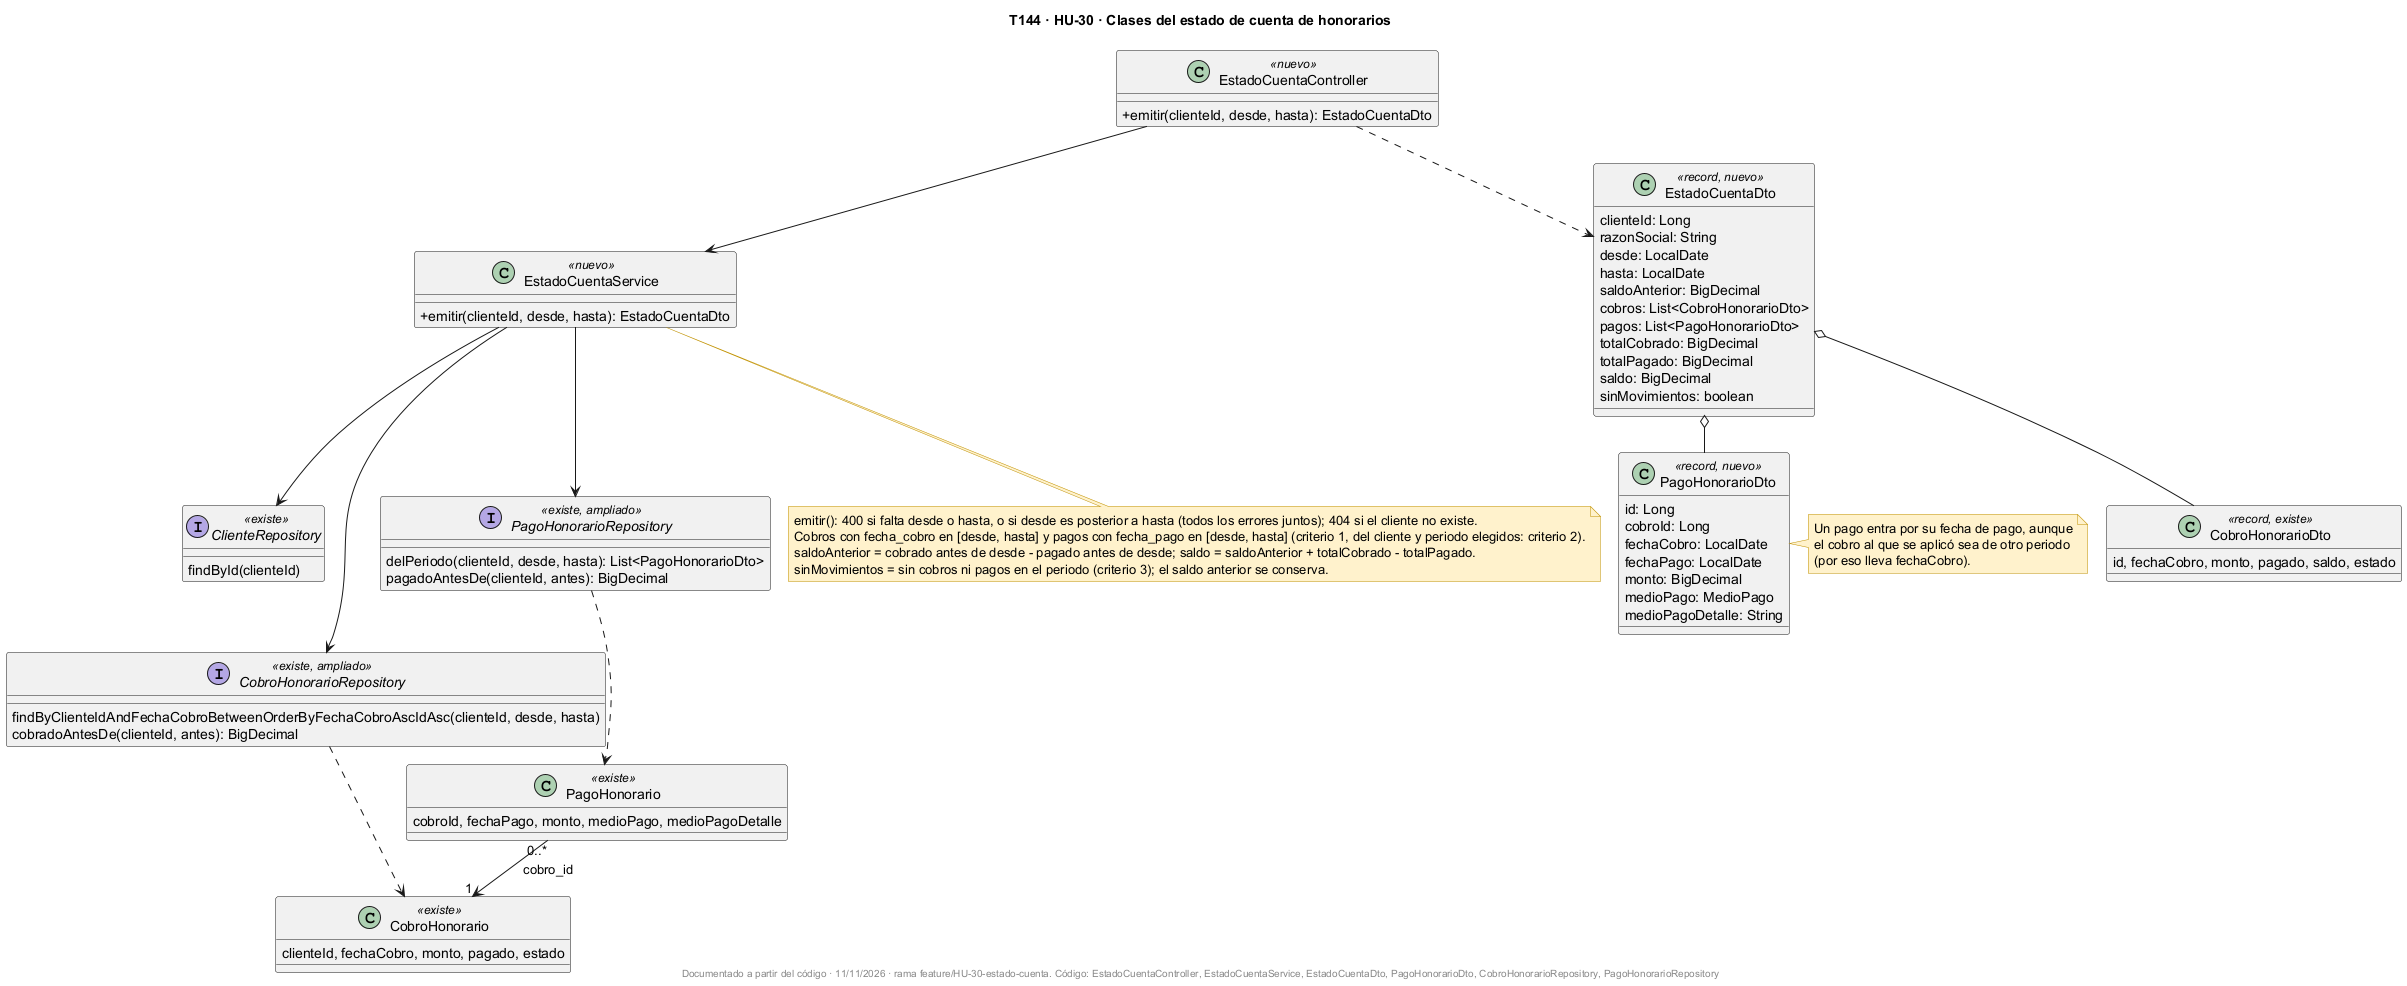
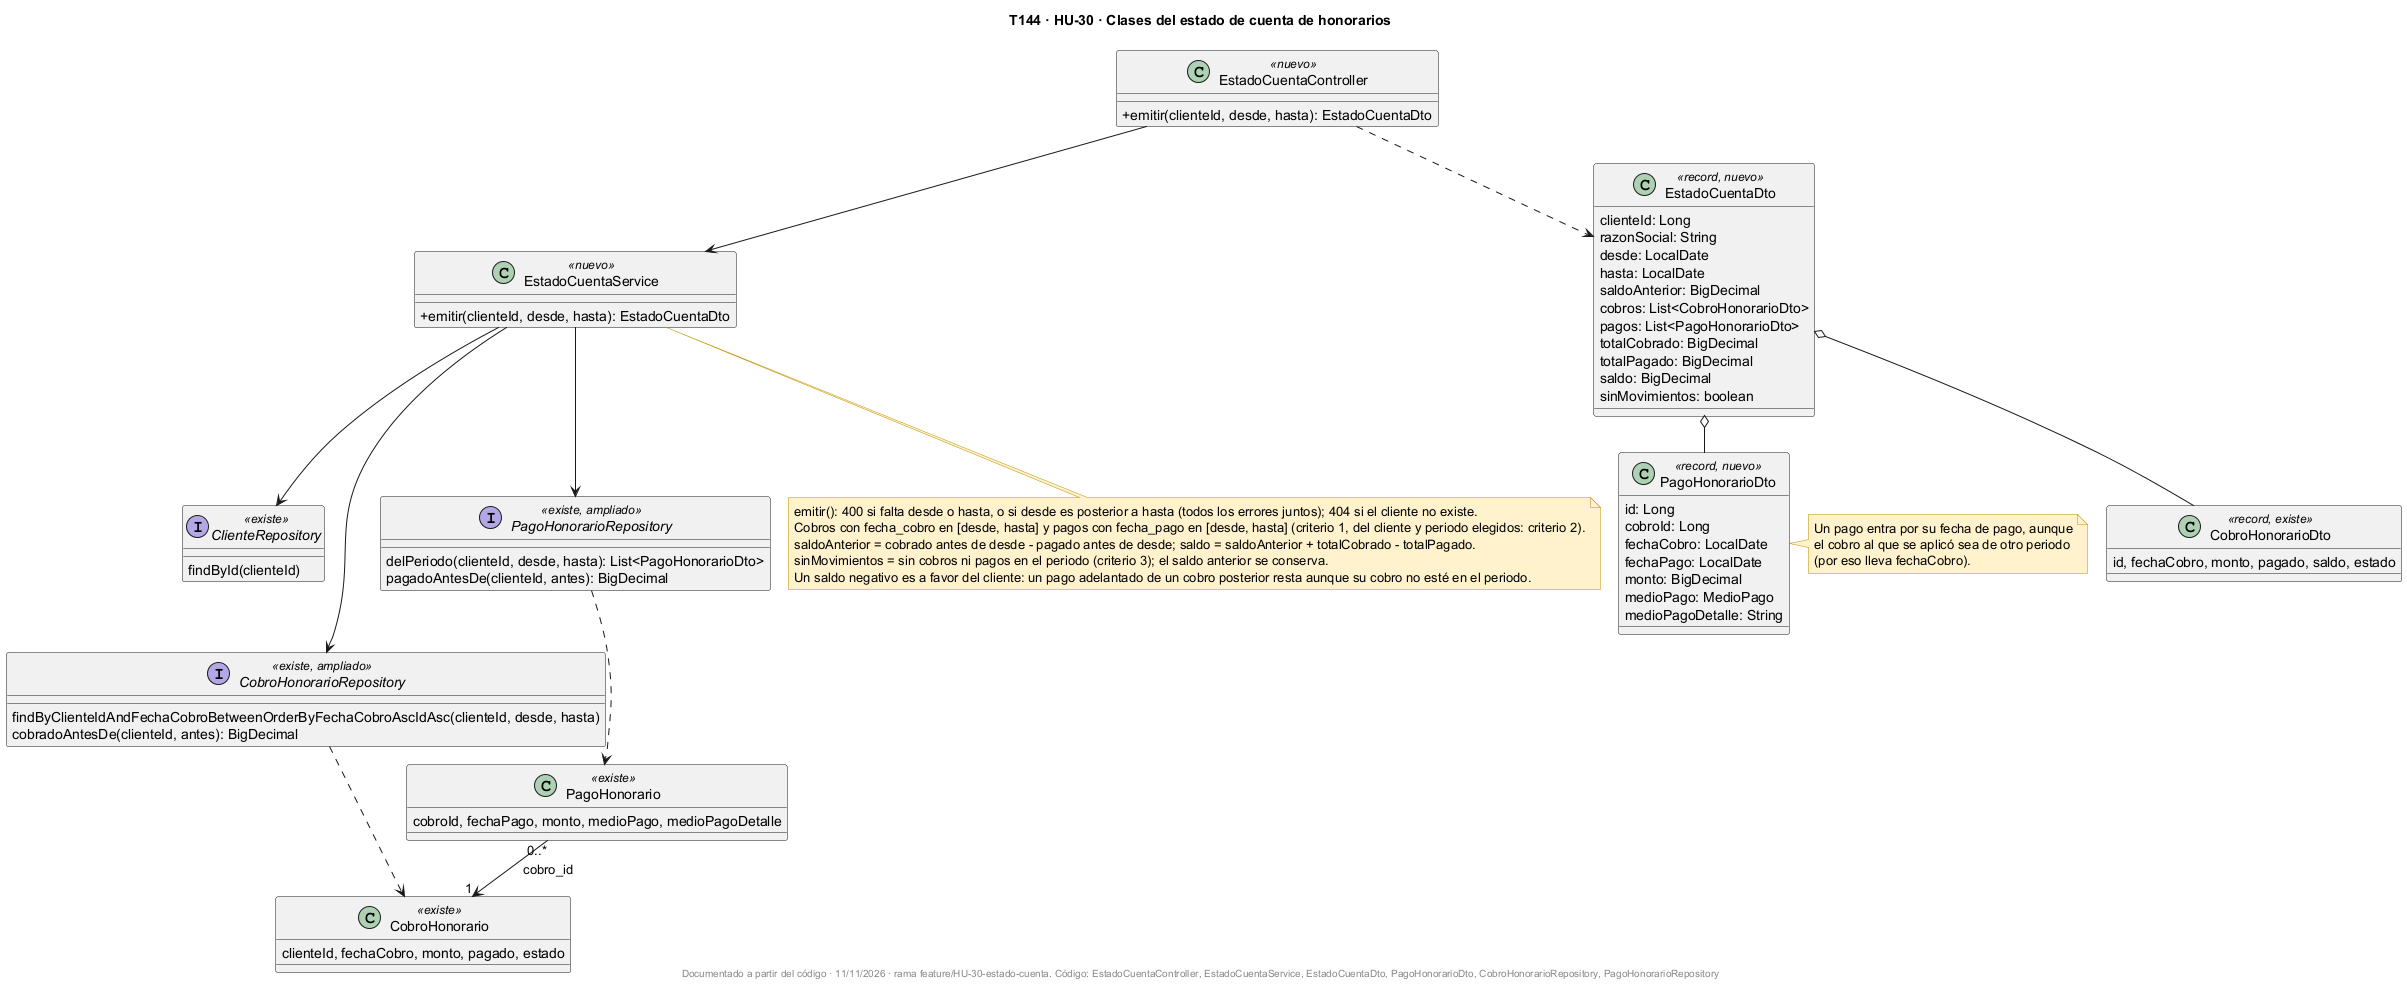
HU-30: etiquetas «Honorarios del periodo» y «Pagos recibidos», saldo a favor y estado de hoy (revisión de #58)
- El resumen dice «Honorarios del periodo» (lo cobrado según las fechas de cobro) y «Pagos recibidos», para no confundir
  lo facturado con lo recibido.
- Un saldo negativo se muestra «a favor del cliente», con una nota: los pagos entran por su fecha de pago, así que un pago
  adelantado de un cobro posterior al periodo puede dejar saldo a favor. Prueba con PostgreSQL que lo fija.
- La columna de los cobros dice «Estado actual (hoy)».
- Diagramas T144 actualizados.

Changed region(s): [[0.3116, 0.4868, 0.6855, 0.6085]]

diff --git a/frontend-web/src/pages/EstadoCuentaPage.tsx b/frontend-web/src/pages/EstadoCuentaPage.tsx
@@ -15,6 +15,9 @@ import Table, { Td } from '../components/Table'
 
 const ESTADO_COBRO = { PENDIENTE: 'Pendiente', PAGO_PARCIAL: 'Pago parcial', PAGADO: 'Pagado' } as const
 
+/** Un saldo negativo es plata a favor del cliente (por ejemplo, un pago adelantado). */
+const saldo = (n: number) => (Number(n) < 0 ? `${soles(-Number(n))} a favor del cliente` : soles(n))
+
 /** El mes en curso, en hora local. */
 function mesActual(): { desde: string; hasta: string } {
   const hoy = new Date()
@@ -79,17 +82,21 @@ export default function EstadoCuentaPage() {
           </p>
           <dl aria-label="Resumen" className="grid grid-cols-2 gap-3 text-sm sm:grid-cols-4">
             {[
-              ['Saldo anterior', estado.saldoAnterior],
-              ['Cobrado en el periodo', estado.totalCobrado],
-              ['Pagado en el periodo', estado.totalPagado],
-              ['Saldo al cierre', estado.saldo],
+              ['Saldo anterior', saldo(estado.saldoAnterior)],
+              ['Honorarios del periodo', soles(estado.totalCobrado)],
+              ['Pagos recibidos', soles(estado.totalPagado)],
+              ['Saldo al cierre', saldo(estado.saldo)],
             ].map(([etiqueta, valor]) => (
-              <div key={etiqueta as string} className="rounded-lg border border-slate-200 p-3">
+              <div key={etiqueta} className="rounded-lg border border-slate-200 p-3">
                 <dt className="text-slate-500">{etiqueta}</dt>
-                <dd className="text-base font-semibold text-slate-900">{soles(valor as number)}</dd>
+                <dd className="text-base font-semibold text-slate-900">{valor}</dd>
               </div>
             ))}
           </dl>
+          <p className="text-xs text-slate-500">
+            Los honorarios son los cobros con fecha en el periodo. Los pagos entran por su fecha de pago, aunque sean de un cobro
+            de otro periodo: un pago adelantado puede dejar saldo a favor del cliente.
+          </p>
 
           {estado.sinMovimientos ? (
             <p role="status" className="rounded-lg bg-slate-50 p-3 text-sm text-slate-600">
@@ -99,7 +106,7 @@ export default function EstadoCuentaPage() {
             <>
               <section aria-label="Cobros del periodo">
                 <h3 className="mb-2 font-medium">Cobros</h3>
-                <Table columnas={['Fecha de cobro', 'Monto', 'Estado actual']} hayFilas={estado.cobros.length > 0}
+                <Table columnas={['Fecha de cobro', 'Monto', 'Estado actual (hoy)']} hayFilas={estado.cobros.length > 0}
                   vacio="No hay cobros en este periodo.">
                   {estado.cobros.map((c) => (
                     <tr key={c.id}><Td>{fechaCorta(c.fechaCobro)}</Td><Td>{soles(c.monto)}</Td><Td>{ESTADO_COBRO[c.estado]}</Td></tr>

diff --git a/frontend-web/src/pages/EstadoCuentaPage.test.tsx b/frontend-web/src/pages/EstadoCuentaPage.test.tsx
@@ -58,8 +58,8 @@ describe('Estado de cuenta de honorarios (HU-30)', () => {
 
     const resumen = await screen.findByLabelText('Resumen')
     expect(within(resumen).getByText('Saldo anterior').nextSibling?.textContent).toBe(soles(300))
-    expect(within(resumen).getByText('Cobrado en el periodo').nextSibling?.textContent).toBe(soles(500))
-    expect(within(resumen).getByText('Pagado en el periodo').nextSibling?.textContent).toBe(soles(400))
+    expect(within(resumen).getByText('Honorarios del periodo').nextSibling?.textContent).toBe(soles(500))
+    expect(within(resumen).getByText('Pagos recibidos').nextSibling?.textContent).toBe(soles(400))
     expect(within(resumen).getByText('Saldo al cierre').nextSibling?.textContent).toBe(soles(400))
 
     const cobros = screen.getByLabelText('Cobros del periodo')
@@ -70,6 +70,17 @@ describe('Estado de cuenta de honorarios (HU-30)', () => {
     expect(within(pagos).getByText('Transferencia bancaria')).toBeTruthy()
     expect(within(pagos).getByText('Otro: Tarjeta')).toBeTruthy()
     expect(screen.getByText(/del 01\/11\/2026 al 30\/11\/2026/)).toBeTruthy()
+  })
+
+  it('un saldo negativo (pago adelantado) se muestra como saldo a favor del cliente y el estado es el de hoy', async () => {
+    vi.mocked(emitirEstadoCuenta).mockResolvedValue(estado({ saldoAnterior: 0, totalCobrado: 0, totalPagado: 500, saldo: -500 }))
+    render(<EstadoCuentaPage />)
+    await elegirYEmitir()
+
+    const resumen = await screen.findByLabelText('Resumen')
+    expect(within(resumen).getByText('Saldo al cierre').nextSibling?.textContent).toBe(`${soles(500)} a favor del cliente`)
+    expect(screen.getByText('Estado actual (hoy)')).toBeTruthy()
+    expect(screen.getByText(/un pago adelantado puede dejar saldo a favor del cliente/)).toBeTruthy()
   })
 
   it('criterio 3: sin movimientos en el periodo lo indica y conserva el saldo', async () => {

diff --git a/backend/ms-tributario/src/test/java/com/pluscontable/tributario/service/EstadoCuentaPostgresTest.java b/backend/ms-tributario/src/test/java/com/pluscontable/tributario/service/EstadoCuentaPostgresTest.java
@@ -96,6 +96,26 @@ class EstadoCuentaPostgresTest {
     }
 
     @Test
+    void unPagoAdelantadoDeUnCobroPosteriorEntraEnLosPagosYPuedeDejarSaldoAFavor() {
+        long id = cliente();
+        long diciembre = cobro(id, "2026-12-15", "500.00");          // cobro de un periodo posterior
+        pago(diciembre, "2026-11-20", "500.00", "EFECTIVO", null);    // pagado por adelantado dentro del periodo
+
+        EstadoCuentaDto r = service.emitir(id, LocalDate.of(2026, 11, 1), LocalDate.of(2026, 11, 30));
+
+        assertThat(r.cobros()).isEmpty();                              // el cobro es de diciembre
+        assertThat(r.pagos()).singleElement().satisfies(p -> assertThat(p.fechaCobro()).isEqualTo(LocalDate.of(2026, 12, 15)));
+        assertThat(r.totalPagado()).isEqualByComparingTo("500.00");
+        assertThat(r.saldo()).isEqualByComparingTo("-500.00");         // a favor del cliente
+        assertThat(r.sinMovimientos()).isFalse();
+
+        // en diciembre ese pago ya está en el saldo anterior y el saldo vuelve a cero
+        EstadoCuentaDto dic = service.emitir(id, LocalDate.of(2026, 12, 1), LocalDate.of(2026, 12, 31));
+        assertThat(dic.saldoAnterior()).isEqualByComparingTo("-500.00");
+        assertThat(dic.saldo()).isEqualByComparingTo("0");
+    }
+
+    @Test
     void criterio3_unPeriodoSinMovimientosLoIndicaYUnClienteNoVeLosDeOtro() {
         long id = cliente();
         long otro = cliente();

diff --git a/backend/ms-tributario/src/main/java/com/pluscontable/tributario/dto/EstadoCuentaDto.java b/backend/ms-tributario/src/main/java/com/pluscontable/tributario/dto/EstadoCuentaDto.java
@@ -6,7 +6,8 @@ import java.util.List;
 
 /**
  * HU-30: estado de cuenta de honorarios de un cliente en [desde, hasta]. saldo = saldoAnterior + totalCobrado - totalPagado;
- * saldoAnterior es lo que se debía antes de desde.
+ * saldoAnterior es lo que se debía antes de desde. Un saldo negativo es a favor del cliente: los pagos entran por su fecha
+ * de pago, así que un pago adelantado de un cobro posterior al periodo resta aunque su cobro no esté en el periodo.
  */
 public record EstadoCuentaDto(Long clienteId, String razonSocial, LocalDate desde, LocalDate hasta, BigDecimal saldoAnterior,
                               List<CobroHonorarioDto> cobros, List<PagoHonorarioDto> pagos, BigDecimal totalCobrado,
